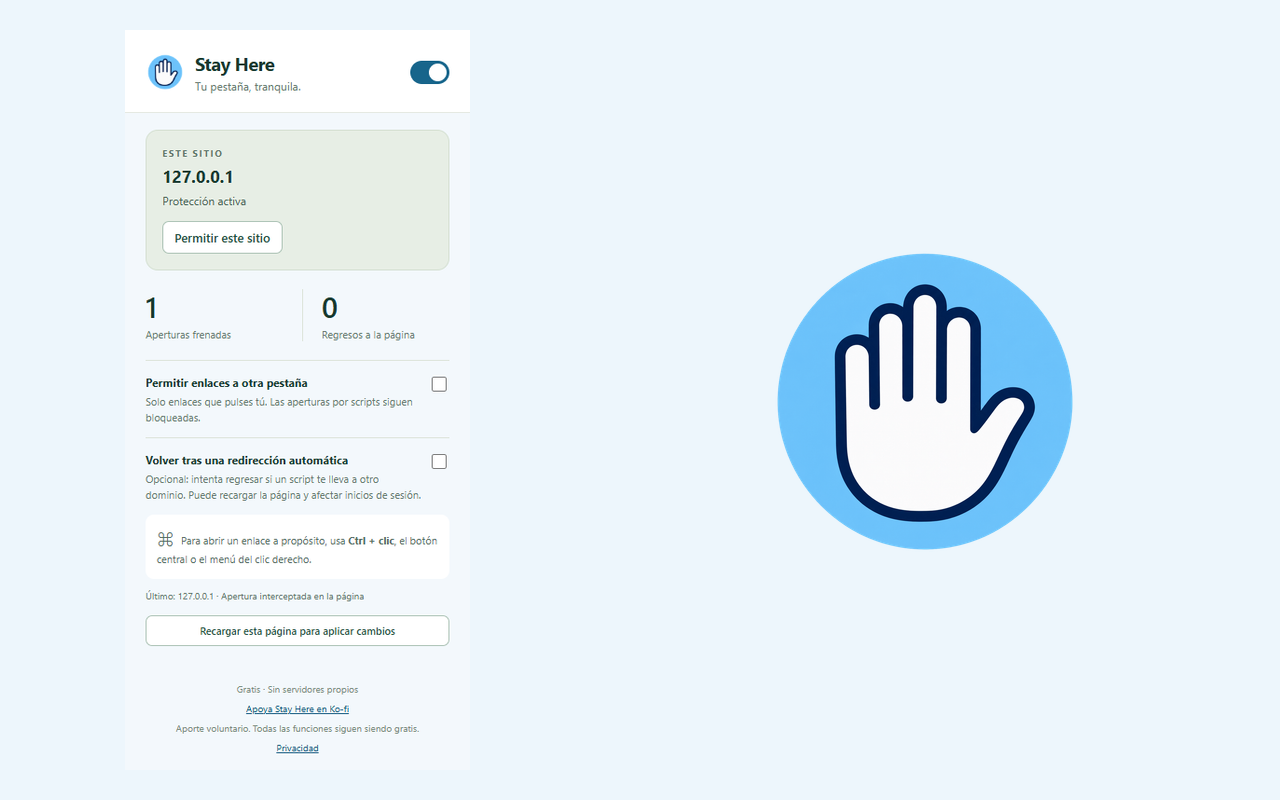
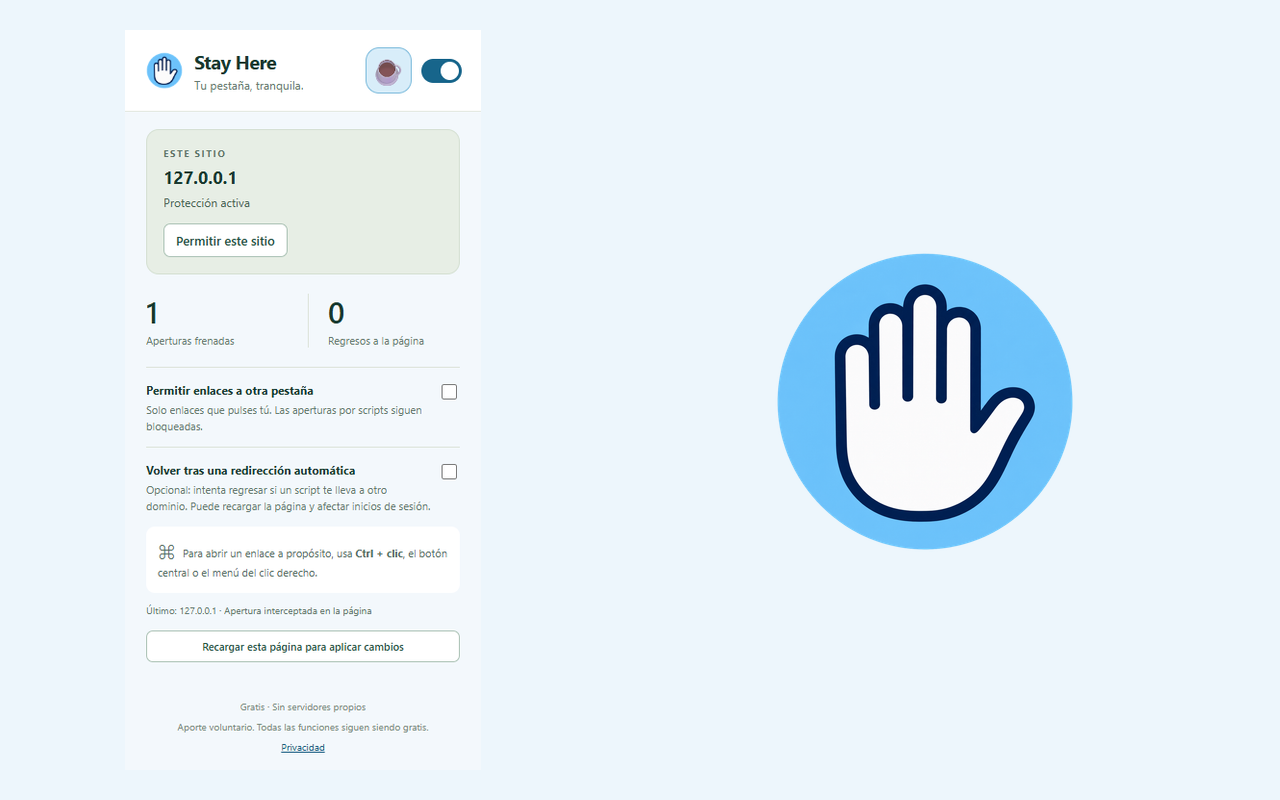
Añade botón grande de café al encabezado de Stay Here 1.1.3

diff --git a/extension/popup.css b/extension/popup.css
@@ -1,7 +1,7 @@
 :root { color-scheme: light; font-family: "Segoe UI", system-ui, sans-serif; color: #18392f; background: #f3f8fc; }
 * { box-sizing: border-box; }
 body { width: 370px; margin: 0; font-size: 13px; }
-header { display: flex; align-items: center; gap: 11px; padding: 22px 22px 20px; background: #fff; border-bottom: 1px solid #e4e8e0; }
+header { display: flex; align-items: center; gap: 10px; padding: 18px 20px; background: #fff; border-bottom: 1px solid #e4e8e0; }
 h1 { font-size: 20px; margin: 0; letter-spacing: -.6px; }
 header p { font-size: 12px; margin: 3px 0 0; color: #64786d; }
 .logo { position: relative; width: 39px; height: 39px; display: grid; place-items: center; background: #17658b; color: white; border-radius: 12px; font-size: 30px; line-height: 1; }
@@ -41,3 +41,10 @@ footer { text-align: center; font-size: 10px; color: #798c80; padding: 0 12px 17
 footer p { margin: 7px 0; }
 footer a { color: #145a80; }
 [hidden] { display: none !important; }
+
+.brand-copy { flex: 1; min-width: 0; }
+.brand-copy h1, .brand-copy p { white-space: nowrap; }
+.coffee-button { display: inline-flex; align-items: center; justify-content: center; flex: 0 0 48px; width: 48px; height: 48px; border: 1px solid #c8e5f5; border-radius: 14px; background: #e9f5fc; text-decoration: none; cursor: pointer; }
+.coffee-button span { font-size: 29px; line-height: 1; }
+.coffee-button:hover { background: #d8edf9; border-color: #7dbbdc; }
+.coffee-button:focus-visible { outline: 3px solid #17658b; outline-offset: 3px; }

diff --git a/extension/popup.html b/extension/popup.html
@@ -11,7 +11,8 @@
 <body>
   <header>
     <img class="logo" src="icons/icon-128.png" alt="" width="42" height="42">
-    <div><h1>Stay Here</h1><p>Tu pestaña, tranquila.</p></div>
+    <div class="brand-copy"><h1>Stay Here</h1><p>Tu pestaña, tranquila.</p></div>
+    <a id="support" class="coffee-button" hidden target="_blank" rel="noopener noreferrer" aria-label="Apoyar Stay Here en Ko-fi" title="Apoyar Stay Here en Ko-fi"><span aria-hidden="true">☕</span></a>
     <label class="switch" title="Activar protección global">
       <input type="checkbox" id="enabled" aria-label="Activar protección global">
       <span></span>
@@ -45,7 +46,6 @@
   </main>
   <footer>
     <p>Gratis · Sin servidores propios</p>
-    <a id="support" hidden target="_blank" rel="noopener noreferrer">Apoya Stay Here en Ko-fi</a>
     <p id="support-note" hidden>Aporte voluntario. Todas las funciones siguen siendo gratis.</p>
     <a href="privacy.html" target="_blank" rel="noopener">Privacidad</a>
   </footer>

diff --git a/docs/CHANGELOG.md b/docs/CHANGELOG.md
@@ -2,6 +2,8 @@
 
 ## 1.1.3
 
+- Botón de Ko-fi con símbolo de café de mayor tamaño junto al nombre y al interruptor del panel.
+
 - Una descarga de instalación identificada como `StayHere-1.1.3.zip`, con `manifest.json` en su raíz.
 - Instrucciones de instalación directas y diferenciadas de las descargas de código fuente.
 - Verificación de los archivos del ZIP generado y comprobación de navegador sobre la copia extraída del paquete.
